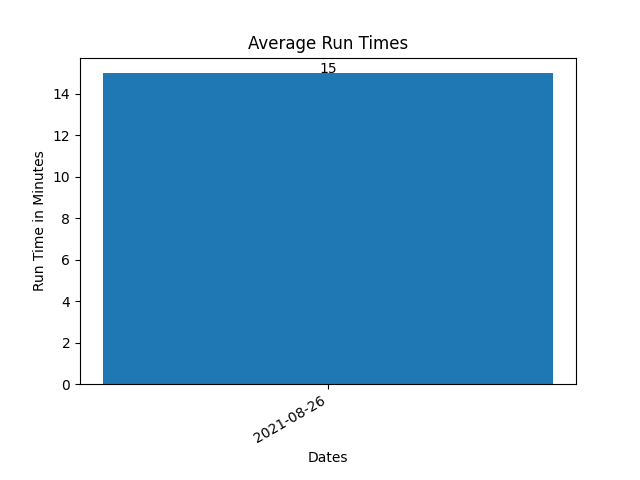
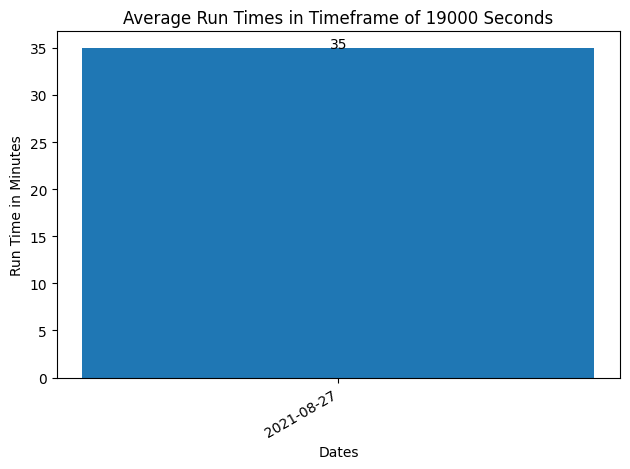
graph fit

diff --git a/pipelineRuntime_report.py b/pipelineRuntime_report.py
@@ -186,7 +186,8 @@ def createBarGraph(x_col, y_col, x_label, y_label, title, filename):
     plt.xlabel(x_label)
     plt.ylabel(y_label)
     plt.title(title)
-    plt.savefig(filename)
+    plt.tight_layout()
+    plt.savefig(filename, bbox_inches="tight")
     plt.show()
 
 
@@ -235,7 +236,7 @@ def main(argv):
     Pmean_df['run time(mins)'] = Pmean_df['run time(mins)'].astype(int)
     createBarGraph(Pmean_df['pipelineName'], Pmean_df['run time(mins)'],
                    "Pipeline", "Runtime in Minutes",
-                   f"Runtime Averages for each Pipeline in Timeframe of {delta} Seconds",
+                   f"Runtime Averages for each Pipeline in\n Timeframe of {delta} Seconds",
                    "pipelineRuntimes.png")
 
     """ Create an analysis on avg runtime for each stage in pipeline"""
@@ -253,7 +254,8 @@ def main(argv):
     Sgroup_mean = stage_df.groupby('name')['runtime'].mean()
     Smean_df = Sgroup_mean.reset_index()
     Smean_df['runtime'] = Smean_df['runtime'].astype(int)
-    createBarGraph(Smean_df['name'], Smean_df['runtime'], "Stage Name", "Runtime in Seconds", f"Average Runtime for each Stage in Timeframe of {delta} seconds", "stageAvg.png")
+    createBarGraph(Smean_df['name'], Smean_df['runtime'], "Stage Name", "Runtime in Seconds",
+                   f"Average Runtime for each Stage in\n Timeframe of {delta} seconds", "stageAvg.png")
 
 
 if __name__ == "__main__":
